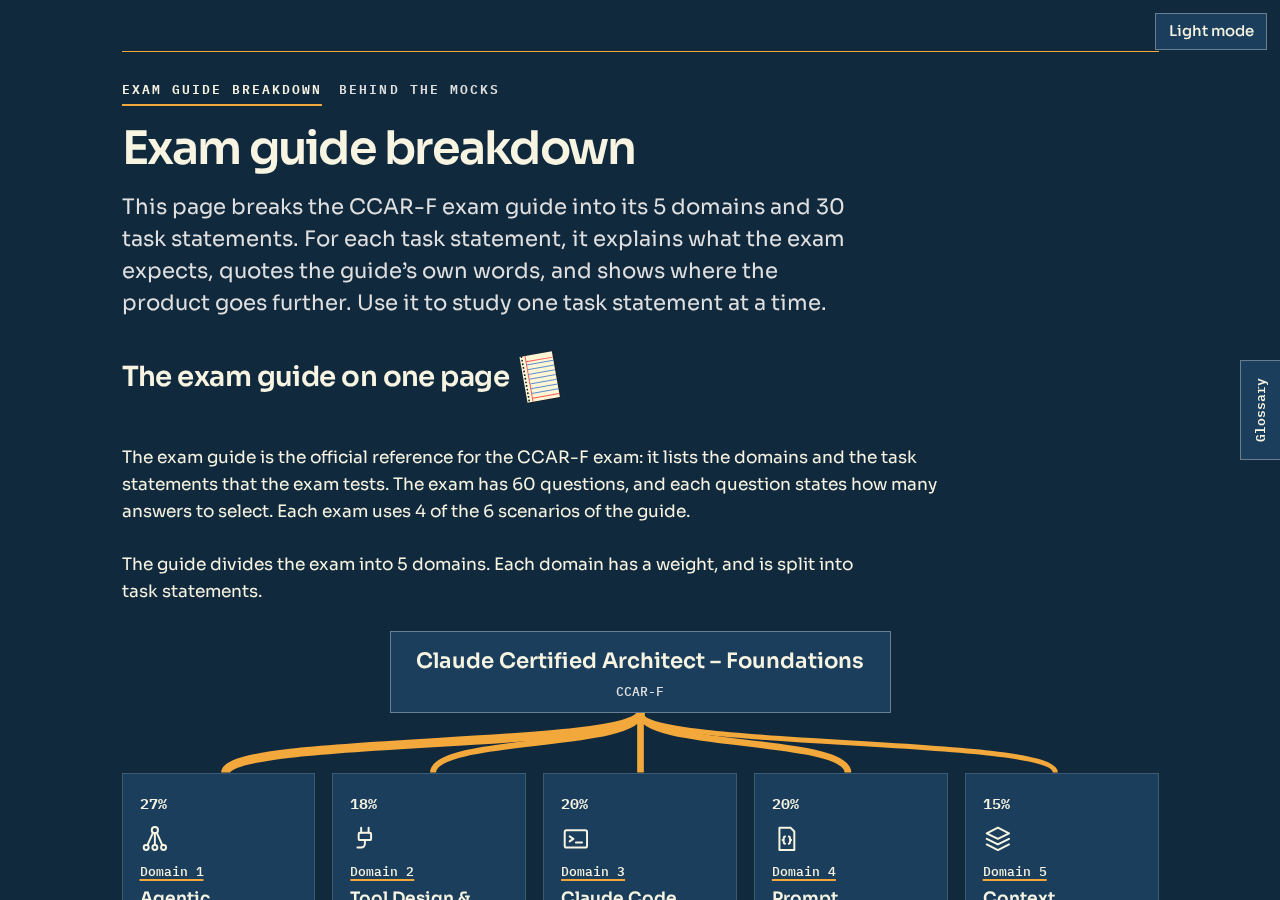
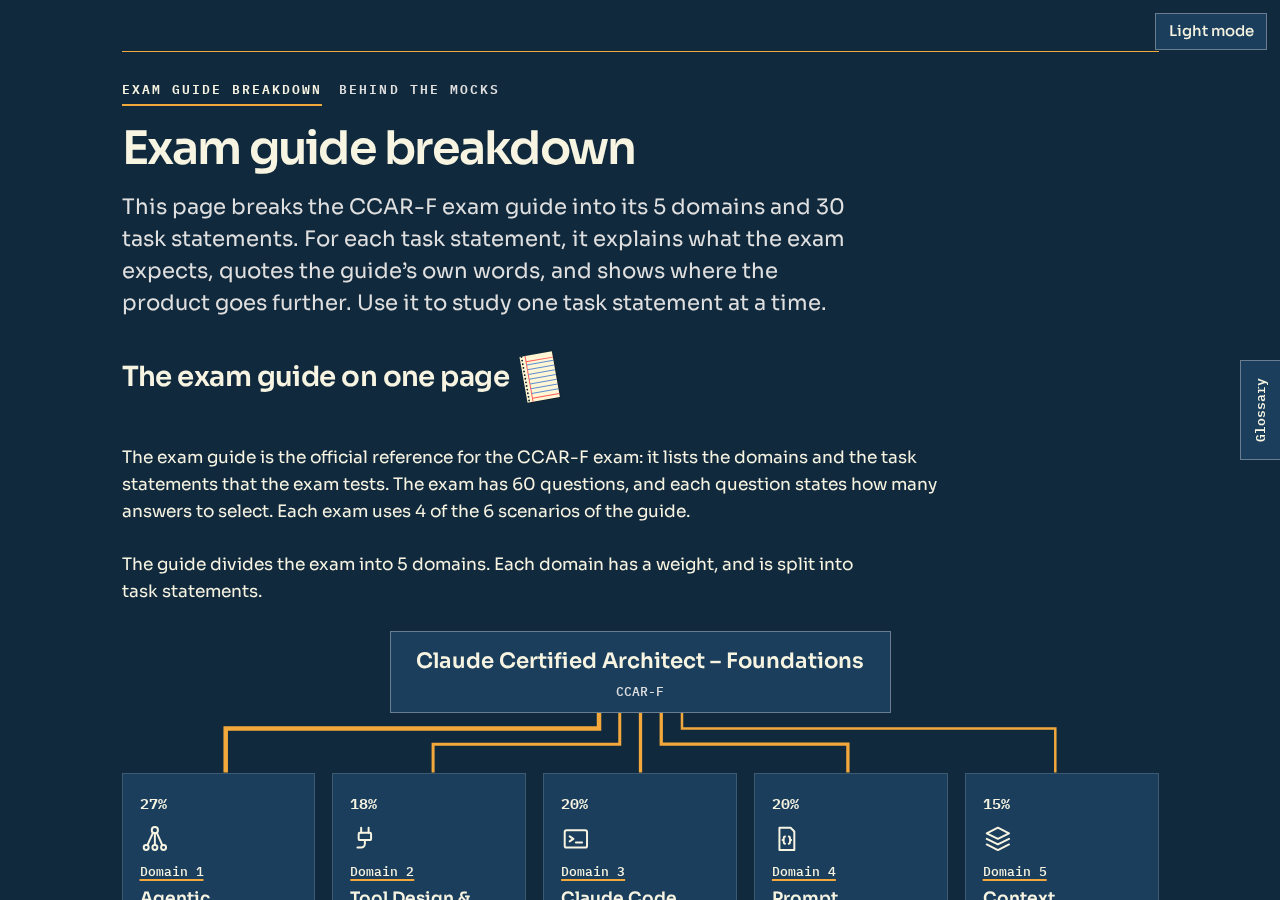
Tab 1: straight lines with right angles in Fig. A, an intro and a two-axis graph before the table of scenarios, and the chip primary explained in the caption of Fig. B (owner, 15 October 2026). check-pages prints All checks passed for tab 1
Claude-Session: https://claude.ai/code/session_01UTkgDqrwTLkESy2KzoY348

Changed region(s): [[0.1562, 0.7778, 0.8438, 0.8711]]

diff --git a/academy/pages/exam-guide-breakdown.html b/academy/pages/exam-guide-breakdown.html
@@ -204,13 +204,15 @@
   <p><span class="fact" tabindex="0" role="button" data-card="m-what">The exam guide is the official reference for the CCAR-F exam: it lists the domains and the task statements that the exam tests.</span> <span class="fact" tabindex="0" role="button" data-card="m-items">The exam has 60 questions</span>, <span class="fact" tabindex="0" role="button" data-card="m-format">and each question states how many answers to select.</span> <span class="fact" tabindex="0" role="button" data-card="m-struct">Each exam uses 4 of the 6 scenarios of the guide.</span></p>
   <p>The guide divides the exam into 5 domains. Each domain has a weight, and is split into task statements.</p>
   <figure data-figure="map">
-    <div class="exam-top"><p class="exam-node">Claude Certified Architect &ndash; Foundations <span class="ve-label">CCAR-F</span></p><svg class="exam-lines" viewBox="0 0 1000 84" preserveAspectRatio="none" aria-hidden="true" focusable="false"><path d="M500 0 C500 50 100 34 100 84" stroke-width="9.0"/><path d="M500 0 C500 50 300 34 300 84" stroke-width="6.0"/><path d="M500 0 C500 50 500 34 500 84" stroke-width="6.7"/><path d="M500 0 C500 50 700 34 700 84" stroke-width="6.7"/><path d="M500 0 C500 50 900 34 900 84" stroke-width="5.0"/></svg></div>
+    <div class="exam-top"><p class="exam-node">Claude Certified Architect &ndash; Foundations <span class="ve-label">CCAR-F</span></p><svg class="exam-lines" viewBox="0 0 1000 84" preserveAspectRatio="none" aria-hidden="true" focusable="false"><path d="M460 0 V22 H100 V84" stroke-width="4.5"/><path d="M480 0 V44 H300 V84" stroke-width="3.0"/><path d="M500 0 V44 H500 V84" stroke-width="3.3"/><path d="M520 0 V44 H700 V84" stroke-width="3.3"/><path d="M540 0 V22 H900 V84" stroke-width="2.5"/></svg></div>
     <div class="tmap"><div class="tcol"><p class="tw"><span class="fact" tabindex="0" role="button" data-card="m-d1">27%</span></p><svg class="d-icon" viewBox="0 0 24 24" aria-hidden="true" focusable="false" fill="none" stroke="currentColor" stroke-width="1.6" stroke-linecap="round" stroke-linejoin="round"><circle cx="12" cy="5" r="2.5"/><circle cx="5" cy="19" r="2"/><circle cx="12" cy="19" r="2"/><circle cx="19" cy="19" r="2"/><path d="M12 7.5V17M10.5 7l-4.5 10M13.5 7l4.5 10"/></svg><p class="ve-label"><a href="#domain-1">Domain 1</a></p><p class="tname">Agentic Architecture &amp; Orchestration</p><p class="tsum">Agents that run themselves.</p><ol class="tlist"><li><a href="#ts-1-1"><span class="pid">1.1</span> <span>The loop runs while Claude asks for tools</span></a></li><li><a href="#ts-1-2"><span class="pid">1.2</span> <span>The coordinator splits the work and routes every result</span></a></li><li><a href="#ts-1-3"><span class="pid">1.3</span> <span>A subagent sees none of the coordinator&#x27;s conversation</span></a></li><li><a href="#ts-1-4"><span class="pid">1.4</span> <span>A required order needs a code gate, not a prompt</span></a></li><li><a href="#ts-1-5"><span class="pid">1.5</span> <span>Hooks block a tool call or clean its result</span></a></li><li><a href="#ts-1-6"><span class="pid">1.6</span> <span>Chain fixed steps for known work, adapt for open work</span></a></li><li><a href="#ts-1-7"><span class="pid">1.7</span> <span>Resume valid context, fork to compare, restart when stale</span></a></li></ol></div><div class="tcol"><p class="tw"><span class="fact" tabindex="0" role="button" data-card="m-d2">18%</span></p><svg class="d-icon" viewBox="0 0 24 24" aria-hidden="true" focusable="false" fill="none" stroke="currentColor" stroke-width="1.6" stroke-linecap="round" stroke-linejoin="round"><path d="M9 3v4M15 3v4"/><rect x="7" y="7" width="10" height="6" rx="1"/><path d="M12 13v3a3 3 0 0 1-3 3H6"/></svg><p class="ve-label"><a href="#domain-2">Domain 2</a></p><p class="tname">Tool Design &amp; MCP Integration</p><p class="tsum">Tools that Claude can use well.</p><ol class="tlist"><li><a href="#ts-2-1"><span class="pid">2.1</span> <span>The description decides which tool Claude picks</span></a></li><li><a href="#ts-2-2"><span class="pid">2.2</span> <span>Errors must say what failed and whether a retry helps</span></a></li><li><a href="#ts-2-3"><span class="pid">2.3</span> <span>Give each agent only the tools that its role needs</span></a></li><li><a href="#ts-2-4"><span class="pid">2.4</span> <span>Share MCP servers in .mcp.json, with secrets in variables</span></a></li><li><a href="#ts-2-5"><span class="pid">2.5</span> <span>Grep finds content, Glob finds files, Edit needs unique text</span></a></li></ol></div><div class="tcol"><p class="tw"><span class="fact" tabindex="0" role="button" data-card="m-d3">20%</span></p><svg class="d-icon" viewBox="0 0 24 24" aria-hidden="true" focusable="false" fill="none" stroke="currentColor" stroke-width="1.6" stroke-linecap="round" stroke-linejoin="round"><rect x="3" y="5" width="18" height="14" rx="1.5"/><path d="M7 10l3 2-3 2M12 15h5"/></svg><p class="ve-label"><a href="#domain-3">Domain 3</a></p><p class="tname">Claude Code Configuration &amp; Workflows</p><p class="tsum">Claude Code for a team.</p><ol class="tlist"><li><a href="#ts-3-1"><span class="pid">3.1</span> <span>Team instructions live in the project CLAUDE.md, split into files</span></a></li><li><a href="#ts-3-2"><span class="pid">3.2</span> <span>Share skills through the repository, and set how they run</span></a></li><li><a href="#ts-3-3"><span class="pid">3.3</span> <span>A rule with a glob loads only for matching files</span></a></li><li><a href="#ts-3-4"><span class="pid">3.4</span> <span>Plan first when the change is big or unclear</span></a></li><li><a href="#ts-3-5"><span class="pid">3.5</span> <span>Refine with examples, failing tests and an interview</span></a></li><li><a href="#ts-3-6"><span class="pid">3.6</span> <span>In CI, run <code>claude -p</code> with a schema and context</span></a></li></ol></div><div class="tcol"><p class="tw"><span class="fact" tabindex="0" role="button" data-card="m-d4">20%</span></p><svg class="d-icon" viewBox="0 0 24 24" aria-hidden="true" focusable="false" fill="none" stroke="currentColor" stroke-width="1.6" stroke-linecap="round" stroke-linejoin="round"><path d="M6 3h9l3 3v15H6z"/><path d="M10.5 10c-1 0-1 .8-1 1.6s0 1.4-1 1.4c1 0 1 .6 1 1.4s0 1.6 1 1.6M13.5 10c1 0 1 .8 1 1.6s0 1.4 1 1.4c-1 0-1 .6-1 1.4s0 1.6-1 1.6"/></svg><p class="ve-label"><a href="#domain-4">Domain 4</a></p><p class="tname">Prompt Engineering &amp; Structured Output</p><p class="tsum">Prompts that give reliable output.</p><ol class="tlist"><li><a href="#ts-4-1"><span class="pid">4.1</span> <span>Name what to report, not how careful to be</span></a></li><li><a href="#ts-4-2"><span class="pid">4.2</span> <span>Few-shot examples fix what instructions alone leave inconsistent</span></a></li><li><a href="#ts-4-3"><span class="pid">4.3</span> <span>A schema guarantees the form, not the values</span></a></li><li><a href="#ts-4-4"><span class="pid">4.4</span> <span>Retry with the exact errors, but not for missing facts</span></a></li><li><a href="#ts-4-5"><span class="pid">4.5</span> <span>Batch only the work that can wait a day</span></a></li><li><a href="#ts-4-6"><span class="pid">4.6</span> <span>A new instance reviews each file, then the files together</span></a></li></ol></div><div class="tcol"><p class="tw"><span class="fact" tabindex="0" role="button" data-card="m-d5">15%</span></p><svg class="d-icon" viewBox="0 0 24 24" aria-hidden="true" focusable="false" fill="none" stroke="currentColor" stroke-width="1.6" stroke-linecap="round" stroke-linejoin="round"><path d="M12 3l9 4.5-9 4.5-9-4.5z"/><path d="M3 12l9 4.5 9-4.5M3 16.5l9 4.5 9-4.5"/></svg><p class="ve-label"><a href="#domain-5">Domain 5</a></p><p class="tname">Context Management &amp; Reliability</p><p class="tsum">Reliable systems.</p><ol class="tlist"><li><a href="#ts-5-1"><span class="pid">5.1</span> <span>Pin exact facts outside the summary, and trim the rest</span></a></li><li><a href="#ts-5-2"><span class="pid">5.2</span> <span>Escalate on explicit criteria, not on mood or confidence</span></a></li><li><a href="#ts-5-3"><span class="pid">5.3</span> <span>A failed subagent reports what failed, never a silent empty</span></a></li><li><a href="#ts-5-4"><span class="pid">5.4</span> <span>Keep findings in files, keep exploration in subagents</span></a></li><li><a href="#ts-5-5"><span class="pid">5.5</span> <span>Trust confidence scores only after labeled data calibrates them</span></a></li><li><a href="#ts-5-6"><span class="pid">5.6</span> <span>Each claim keeps its source, date and conflicts</span></a></li></ol></div></div>
     <figcaption><span class="fig-n">Fig. A</span>The exam, its 5 domains and their 30 task statements. Each line is as thick as the weight of its domain. <span class="fact" tabindex="0" role="button" data-card="m-weights">A weight is the approximate share of the scored questions.</span> Each task statement shows its takeaway heading and opens below.</figcaption>
   </figure>
+  <p>A scenario is a realistic production setting that frames a group of questions. Each exam picks 4 of the 6 scenarios. So each question sits on two axes: its domain says what it tests, and its scenario says where it happens.</p>
   <figure>
+    <div class="frame"><svg class="ve-svg" style="min-width:760px" viewBox="0 0 760 230" role="img" aria-label="Two axes. Across: the 5 domains, what a question tests. Up the side: the 6 scenarios, where it happens. One example question, on escalation, sits at scenario 1 and domain 5."><path class="ax-line" d="M138 164H444 M138 10V164"/><circle class="ax-dot" cx="150" cy="20" r="3"/><circle class="ax-dot" cx="150" cy="46" r="3"/><circle class="ax-dot" cx="150" cy="72" r="3"/><circle class="ax-dot" cx="150" cy="98" r="3"/><circle class="ax-dot" cx="150" cy="124" r="3"/><circle class="ax-dot" cx="150" cy="150" r="3"/><circle class="ax-dot" cx="220" cy="20" r="3"/><circle class="ax-dot" cx="220" cy="46" r="3"/><circle class="ax-dot" cx="220" cy="72" r="3"/><circle class="ax-dot" cx="220" cy="98" r="3"/><circle class="ax-dot" cx="220" cy="124" r="3"/><circle class="ax-dot" cx="220" cy="150" r="3"/><circle class="ax-dot" cx="290" cy="20" r="3"/><circle class="ax-dot" cx="290" cy="46" r="3"/><circle class="ax-dot" cx="290" cy="72" r="3"/><circle class="ax-dot" cx="290" cy="98" r="3"/><circle class="ax-dot" cx="290" cy="124" r="3"/><circle class="ax-dot" cx="290" cy="150" r="3"/><circle class="ax-dot" cx="360" cy="20" r="3"/><circle class="ax-dot" cx="360" cy="46" r="3"/><circle class="ax-dot" cx="360" cy="72" r="3"/><circle class="ax-dot" cx="360" cy="98" r="3"/><circle class="ax-dot" cx="360" cy="124" r="3"/><circle class="ax-dot" cx="360" cy="150" r="3"/><circle class="ax-dot" cx="430" cy="20" r="3"/><circle class="ax-dot" cx="430" cy="46" r="3"/><circle class="ax-dot" cx="430" cy="72" r="3"/><circle class="ax-dot" cx="430" cy="98" r="3"/><circle class="ax-dot" cx="430" cy="124" r="3"/><circle class="ax-dot" cx="430" cy="150" r="3"/><text class="ve-lab" x="150" y="182" text-anchor="middle">1</text><text class="ve-lab" x="220" y="182" text-anchor="middle">2</text><text class="ve-lab" x="290" y="182" text-anchor="middle">3</text><text class="ve-lab" x="360" y="182" text-anchor="middle">4</text><text class="ve-lab" x="430" y="182" text-anchor="middle">5</text><text class="ve-lab" x="128" y="24" text-anchor="end">1</text><text class="ve-lab" x="128" y="50" text-anchor="end">2</text><text class="ve-lab" x="128" y="76" text-anchor="end">3</text><text class="ve-lab" x="128" y="102" text-anchor="end">4</text><text class="ve-lab" x="128" y="128" text-anchor="end">5</text><text class="ve-lab" x="128" y="154" text-anchor="end">6</text><text class="ve-el" x="290" y="204">domain: what it tests</text><text class="ve-el" x="60" y="85" transform="rotate(-90 60 85)">scenario: where</text><circle class="ax-hot" cx="430" cy="20" r="8"/><path class="ve-e no-head" d="M440 20H470"/><text class="ve-el r" x="478" y="16">a question on escalation</text><text class="ve-el r" x="478" y="36">scenario 1, domain 5</text></svg></div>
     <div class="table-scroll"><table class="matrix"><thead><tr><th scope="col">Scenario</th><th scope="col"><a href="#domain-1">Domain 1</a></th><th scope="col"><a href="#domain-2">Domain 2</a></th><th scope="col"><a href="#domain-3">Domain 3</a></th><th scope="col"><a href="#domain-4">Domain 4</a></th><th scope="col"><a href="#domain-5">Domain 5</a></th></tr></thead><tbody><tr><th scope="row"><button type="button" class="scen-toggle" aria-expanded="false" aria-controls="scen-1"><span class="sn">1</span>Customer Support Resolution Agent</button></th><td><span class="chip ok">primary</span></td><td><span class="chip ok">primary</span></td><td></td><td></td><td><span class="chip ok">primary</span></td></tr><tr class="scen-detail" id="scen-1"><td colspan="6"><p>You are building a customer support resolution agent using the Claude Agent SDK. The agent handles high-ambiguity requests like returns, billing disputes, and account issues. It has access to your backend systems through custom Model Context Protocol (MCP) tools (<code>get_customer</code>, <code>lookup_order</code>, <code>process_refund</code>, <code>escalate_to_human</code>). Your target is 80%+ first-contact resolution while knowing when to escalate.</p><p class="gh">Primary domains</p><ul class="scen-doms"><li>Agentic Architecture &amp; Orchestration</li><li>Tool Design &amp; MCP Integration</li><li>Context Management &amp; Reliability</li></ul><p class="ve-label"><a href="https://github.com/Magnet-Lab-Au/ccar-f-mock-generator/blob/mocks-v2/reference/exam-guide.md?plain=1#L69-L73">Exam guide, section 5, lines 69 to 73 &rarr;</a></p></td></tr><tr><th scope="row"><button type="button" class="scen-toggle" aria-expanded="false" aria-controls="scen-2"><span class="sn">2</span>Code Generation with Claude Code</button></th><td></td><td></td><td><span class="chip ok">primary</span></td><td></td><td><span class="chip ok">primary</span></td></tr><tr class="scen-detail" id="scen-2"><td colspan="6"><p>You are using Claude Code to accelerate software development. Your team uses it for code generation, refactoring, debugging, and documentation. You need to integrate it into your development workflow with custom slash commands, CLAUDE.md configurations, and understand when to use plan mode vs direct execution.</p><p class="gh">Primary domains</p><ul class="scen-doms"><li>Claude Code Configuration &amp; Workflows</li><li>Context Management &amp; Reliability</li></ul><p class="ve-label"><a href="https://github.com/Magnet-Lab-Au/ccar-f-mock-generator/blob/mocks-v2/reference/exam-guide.md?plain=1#L75-L81">Exam guide, section 5, lines 75 to 81 &rarr;</a></p></td></tr><tr><th scope="row"><button type="button" class="scen-toggle" aria-expanded="false" aria-controls="scen-3"><span class="sn">3</span>Multi-Agent Research System</button></th><td><span class="chip ok">primary</span></td><td><span class="chip ok">primary</span></td><td></td><td></td><td><span class="chip ok">primary</span></td></tr><tr class="scen-detail" id="scen-3"><td colspan="6"><p>You are building a multi-agent research system using the Claude Agent SDK. A coordinator agent delegates to specialized subagents: one searches the web, one analyzes documents, one synthesizes findings, and one generates reports. The system researches topics and produces comprehensive, cited reports.</p><p class="gh">Primary domains</p><ul class="scen-doms"><li>Agentic Architecture &amp; Orchestration</li><li>Tool Design &amp; MCP Integration</li><li>Context Management &amp; Reliability</li></ul><p class="ve-label"><a href="https://github.com/Magnet-Lab-Au/ccar-f-mock-generator/blob/mocks-v2/reference/exam-guide.md?plain=1#L83-L87">Exam guide, section 5, lines 83 to 87 &rarr;</a></p></td></tr><tr><th scope="row"><button type="button" class="scen-toggle" aria-expanded="false" aria-controls="scen-4"><span class="sn">4</span>Developer Productivity with Claude</button></th><td><span class="chip ok">primary</span></td><td><span class="chip ok">primary</span></td><td><span class="chip ok">primary</span></td><td></td><td></td></tr><tr class="scen-detail" id="scen-4"><td colspan="6"><p>You are building developer productivity tools using the Claude Agent SDK. The agent helps engineers explore unfamiliar codebases, understand legacy systems, generate boilerplate code, and automate repetitive tasks. It uses the built-in tools (Read, Write, Bash, Grep, Glob) and integrates with Model Context Protocol (MCP) servers.</p><p class="gh">Primary domains</p><ul class="scen-doms"><li>Tool Design &amp; MCP Integration</li><li>Claude Code Configuration &amp; Workflows</li><li>Agentic Architecture &amp; Orchestration</li></ul><p class="ve-label"><a href="https://github.com/Magnet-Lab-Au/ccar-f-mock-generator/blob/mocks-v2/reference/exam-guide.md?plain=1#L89-L93">Exam guide, section 5, lines 89 to 93 &rarr;</a></p></td></tr><tr><th scope="row"><button type="button" class="scen-toggle" aria-expanded="false" aria-controls="scen-5"><span class="sn">5</span>Claude Code for Continuous Integration</button></th><td></td><td></td><td><span class="chip ok">primary</span></td><td><span class="chip ok">primary</span></td><td></td></tr><tr class="scen-detail" id="scen-5"><td colspan="6"><p>You are integrating Claude Code into your Continuous Integration/Continuous Deployment (CI/CD) pipeline. The system runs automated code reviews, generates test cases, and provides feedback on pull requests. You need to design prompts that provide actionable feedback and minimize false positives.</p><p class="gh">Primary domains</p><ul class="scen-doms"><li>Claude Code Configuration &amp; Workflows</li><li>Prompt Engineering &amp; Structured Output</li></ul><p class="ve-label"><a href="https://github.com/Magnet-Lab-Au/ccar-f-mock-generator/blob/mocks-v2/reference/exam-guide.md?plain=1#L95-L99">Exam guide, section 5, lines 95 to 99 &rarr;</a></p></td></tr><tr><th scope="row"><button type="button" class="scen-toggle" aria-expanded="false" aria-controls="scen-6"><span class="sn">6</span>Structured Data Extraction</button></th><td></td><td></td><td></td><td><span class="chip ok">primary</span></td><td><span class="chip ok">primary</span></td></tr><tr class="scen-detail" id="scen-6"><td colspan="6"><p>You are building a structured data extraction system using Claude. The system extracts information from unstructured documents, validates the output using JavaScript Object Notation (JSON) schemas, and maintains high accuracy. It must handle edge cases gracefully and integrate with downstream systems.</p><p class="gh">Primary domains</p><ul class="scen-doms"><li>Prompt Engineering &amp; Structured Output</li><li>Context Management &amp; Reliability</li></ul><p class="ve-label"><a href="https://github.com/Magnet-Lab-Au/ccar-f-mock-generator/blob/mocks-v2/reference/exam-guide.md?plain=1#L101-L105">Exam guide, section 5, lines 101 to 105 &rarr;</a></p></td></tr></tbody></table></div>
-    <figcaption><span class="fig-n">Fig. B</span>The 6 scenarios of the guide. Each scenario has 2 or 3 primary domains.</figcaption>
+    <figcaption><span class="fig-n">Fig. B</span>The 6 scenarios of the guide. Each scenario has 2 or 3 primary domains. A chip &ldquo;primary&rdquo; marks a domain that the guide names as primary for the scenario. Open a scenario to read its text in the guide.</figcaption>
   </figure>
 </section>
 <section class="parts" id="breakdown" aria-label="How we broke it down">

diff --git a/academy/pages/academy.css b/academy/pages/academy.css
@@ -411,8 +411,10 @@ ul.levels { padding-left: var(--s-5); display: grid; gap: var(--s-1); max-width:
 .exam-node { font-family: var(--font-display); font-weight: 600; font-size: var(--t-lead); padding: var(--s-3) var(--s-5); background: var(--surface); border: 1.5px solid var(--border-bright); border-radius: var(--r-2); text-align: center; max-width: none; }
 .exam-node .ve-label { display: block; margin-top: var(--s-1); }
 .exam-lines { display: block; width: 100%; height: 3.5rem; overflow: visible; }
-.exam-lines path { fill: none; stroke: var(--gold); vector-effect: non-scaling-stroke; stroke-linejoin: round; }
+.exam-lines path { fill: none; stroke: var(--gold); vector-effect: non-scaling-stroke; stroke-linejoin: miter; }
 .d-icon { width: 1.75rem; height: 1.75rem; color: var(--text); }
 .tcol .tsum { font-size: var(--t-small); color: var(--text-dim); line-height: 1.4; }
 @media (min-width: 60rem) { .tmap { grid-template-columns: repeat(5, minmax(0, 1fr)); } }
 @media (max-width: 59.99rem) { .exam-lines { display: none; } .exam-top { justify-items: start; margin-bottom: var(--s-4); } }
+/* the two axes of a question, before the table of scenarios (owner, 15 October 2026) */
+.ax-dot { fill: var(--border-bright); } .ax-hot { fill: var(--accent); stroke: var(--bg); stroke-width: 2; } .ax-line { fill: none; stroke: var(--text-dim); stroke-width: 1.5; }

diff --git a/academy/build/make-exam-guide-breakdown.py b/academy/build/make-exam-guide-breakdown.py
@@ -2847,9 +2847,35 @@ def domain_icon(n):
 def exam_tree():
     """The exam on top, and one line to each domain column, as thick as the weight of the domain (owner, 15 October 2026).
     The lines show only when the five columns stand side by side."""
-    lines = "".join('<path d="M500 0 C500 50 %d 34 %d 84" stroke-width="%.1f"/>' % (100 + 200 * i, 100 + 200 * i, DOM[i + 1]["weight"] / 3) for i in range(5))
+    # straight lines with right angles (owner, 15 October 2026); each line leaves the box at its own point and turns at its own
+    # height, so no two lines share a segment and each thickness stays visible
+    start, turn = {0: 460, 1: 480, 2: 500, 3: 520, 4: 540}, {0: 22, 1: 44, 2: 44, 3: 44, 4: 22}
+    lines = "".join('<path d="M%d 0 V%d H%d V84" stroke-width="%.1f"/>' % (start[i], turn[i], 100 + 200 * i, DOM[i + 1]["weight"] / 6) for i in range(5))
     return ('<div class="exam-top"><p class="exam-node">Claude Certified Architect &ndash; Foundations <span class="ve-label">CCAR-F</span></p>'
             '<svg class="exam-lines" viewBox="0 0 1000 84" preserveAspectRatio="none" aria-hidden="true" focusable="false">%s</svg></div>' % lines)
+
+
+# the two axes of a question: its domain across, its scenario up the side, with one example (owner, 15 October 2026)
+def axes_figure():
+    x0, y0, dx, dy = 150, 20, 70, 26
+    grid = "".join('<circle class="ax-dot" cx="%d" cy="%d" r="3"/>' % (x0 + dx * i, y0 + dy * j) for i in range(5) for j in range(6))
+    xl = "".join('<text class="ve-lab" x="%d" y="%d" text-anchor="middle">%d</text>' % (x0 + dx * i, y0 + dy * 6 + 6, i + 1) for i in range(5))
+    yl = "".join('<text class="ve-lab" x="%d" y="%d" text-anchor="end">%d</text>' % (x0 - 22, y0 + dy * j + 4, j + 1) for j in range(6))
+    ex, ey = x0 + dx * 4, y0
+    return ('<div class="frame"><svg class="ve-svg" viewBox="0 0 760 230" role="img" aria-label="Two axes. Across: the 5 domains, what a question tests. '
+            'Up the side: the 6 scenarios, where it happens. One example question, on escalation, sits at scenario 1 and domain 5.">'
+            '<path class="ax-line" d="M%d %dH%d M%d %dV%d"/>' % (x0 - 12, y0 + dy * 5 + 14, x0 + dx * 4 + 14, x0 - 12, y0 - 10, y0 + dy * 5 + 14)
+            + grid + xl + yl
+            + '<text class="ve-el" x="%d" y="%d">domain: what it tests</text>' % (x0 + dx * 2, y0 + dy * 6 + 28)
+            + '<text class="ve-el" x="%d" y="%d" transform="rotate(-90 %d %d)">scenario: where</text>' % (60, y0 + dy * 2.5, 60, y0 + dy * 2.5)
+            + '<circle class="ax-hot" cx="%d" cy="%d" r="8"/>' % (ex, ey)
+            + '<path class="ve-e no-head" d="M%d %dH%d"/>' % (ex + 10, ey, ex + 40)
+            + '<text class="ve-el r" x="%d" y="%d">a question on escalation</text>' % (ex + 48, ey - 4)
+            + '<text class="ve-el r" x="%d" y="%d">scenario 1, domain 5</text>' % (ex + 48, ey + 16)
+            + '</svg></div>')
+
+
+AXES = None
 
 
 def map_col(d):
@@ -2904,6 +2930,8 @@ def notepad_icon():
 
 NOTEPAD_ICON = notepad_icon()
 
+AXES = axes_figure()
+
 def map_html():
     return """<section class="parts" id="map" aria-label="The map of the exam guide">
   <h2 class="with-icon">The exam guide on one page%(notepad)s</h2>
@@ -2914,15 +2942,17 @@ def map_html():
     <div class="tmap">%(cols)s</div>
     <figcaption><span class="fig-n">Fig. A</span>The exam, its 5 domains and their %(nts)d task statements. Each line is as thick as the weight of its domain. %(weights)s Each task statement shows its takeaway heading and opens below.</figcaption>
   </figure>
+  <p>A scenario is a realistic production setting that frames a group of questions. Each exam picks 4 of the 6 scenarios. So each question sits on two axes: its domain says what it tests, and its scenario says where it happens.</p>
   <figure>
+    %(axes)s
     <div class="table-scroll"><table class="matrix"><thead><tr><th scope="col">Scenario</th>%(dhead)s</tr></thead><tbody>%(scen)s</tbody></table></div>
-    <figcaption><span class="fig-n">Fig. B</span>%(scap)s</figcaption>
+    <figcaption><span class="fig-n">Fig. B</span>%(scap)s A chip &ldquo;primary&rdquo; marks a domain that the guide names as primary for the scenario. Open a scenario to read its text in the guide.</figcaption>
   </figure>
 </section>""" % {"notepad": NOTEPAD_ICON, "what": fact("m-what", "The exam guide is the official reference for the CCAR-F exam: it lists the domains and the task statements that the exam tests."),
                  "items": fact("m-items", "The exam has 60 questions"),
                  "format": fact("m-format", "and each question states how many answers to select."),
                  "struct": fact("m-struct", "Each exam uses 4 of the 6 scenarios of the guide."),
-                 "cols": "".join(map_col(DOM[i]) for i in range(1, 6)), "tree": exam_tree(), "nts": len(TS),
+                 "cols": "".join(map_col(DOM[i]) for i in range(1, 6)), "tree": exam_tree(), "axes": AXES, "nts": len(TS),
                  "weights": fact("m-weights", "A weight is the approximate share of the scored questions."),
                  "scen": "".join(scen_row(s) for s in SCEN),
                  "dhead": "".join('<th scope="col"><a href="#domain-%d">Domain %d</a></th>' % (d, d) for d in range(1, 6)),

diff --git a/academy/journal.md b/academy/journal.md
@@ -18,6 +18,7 @@ One entry for each work session. Newest entry first.
 - Tab 2: the paragraph of the owner below the title has body size and the width of the other paragraphs, 65 characters (owner, 15 October 2026). The owner tried a centered title and paragraph, and took them back: they looked worse.
 - The owner started the manual check and gives notes in batches. Batch 1 (tab 1, top): built at once, the scenario rows of Fig. B open the text of the guide under the row, word for word in paragraphs, in place of a preview card; the three levels are a list; the sentence on the labels of the points has its own line. The other items of batch 1 wait for a decision, one at a time. Decided: the lead of tab 1 is now "This page breaks the CCAR-F exam guide into its 5 domains and 30 task statements. For each task statement, it explains what the exam expects, quotes the guide's own words, and shows where the product goes further. Use it to study one task statement at a time."
 - Tab 1, Fig. A: one sentence introduces the domains. The exam, "Claude Certified Architect – Foundations", stands on top, with one curved line to each domain column, as thick as the weight of the domain. Each column has a line icon, its weight, its name and a one-line summary from the domain section. On a phone the columns stack and the lines are hidden (owner, 15 October 2026).
+- Tab 1: the lines of Fig. A are straight with right angles and thinner, each leaving the box at its own point. Before the table of scenarios, a paragraph says what a scenario is and that each question sits on two axes, and a small graph shows the two axes with one example question (scenario 1, domain 5). The caption of Fig. B explains the chip "primary" (owner, 15 October 2026).
 - Tab 2, Fig. A: each of the 10 boxes opens a popup: what the step takes in and gives out, one fact of the records, links to the task statements that the step uses, and a link to the step. A click no longer jumps to the step. One switch, FIG_A_POPUPS in make-behind-the-mocks.py, brings back the old figure (owner, 15 October 2026). An independent agent checked the popups and found 2 false sentences (code does not make the ideas, and mocks 2 to 4 marked a sample of 20), now fixed.
 - Tab 1: the primer heading is now "Before you start: who runs the tools in each product", because the glossary left the section (decision 0044). A toolbox mark, drawn for it in the colour of the text, stands on its right (owner, 15 October 2026).
 - Tab 1: the notepad mark of the owner (`academy/pages/icons/notepad.svg`, moved from the root folder) stands on the right of the heading "The exam guide on one page", in its own colours, at 1.75 times the text height, tilted by 10 degrees. The page draws it inline with every third ruled line and thicker lines, so the lines show at heading size (owner, 15 October 2026).
